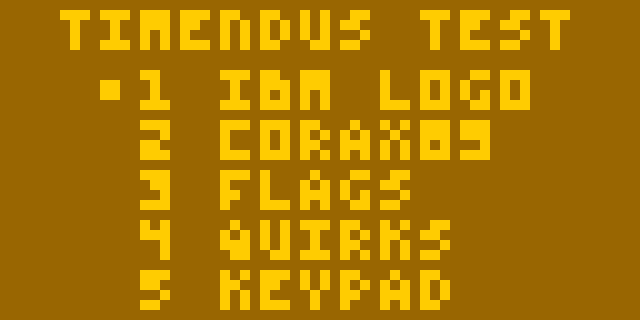
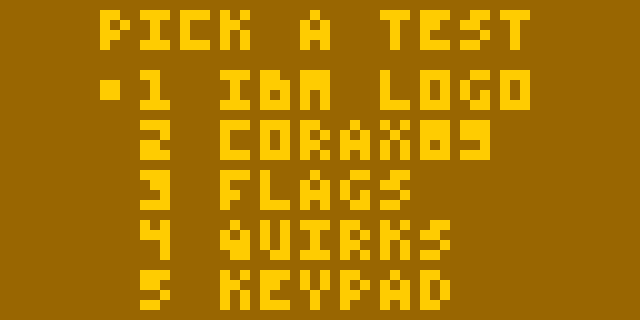
Explain the controls of the menu

diff --git a/README.md b/README.md
@@ -31,12 +31,32 @@ discord channel `#chip-8`](https://discord.gg/dkmJAes). If you discover a
 problem with this test ROM, feel free to file an issue or open a pull request.
 It's open source, licensed under the GPLv3, and you're welcome to contribute.
 
+## Controls
+
+When you see the CHIP-8 splash screen, press any CHIP-8 key to get to the main
+menu:
+
+![The menu for the CHIP-8 test suite](./pictures/menu.png)
+
+In the menu, you can move the cursor up and down with CHIP-8 keys `5` and `8`
+and select an item with `6`. On a PC keyboard those generally map to `W` and `S`
+or `Up` and `Down` to move the cursor and `E` or `Space` to select.
+
+Alternatively, for tests 1-4 you can press the corresponding CHIP-8 key to jump
+to those tests immediately. Note that this doesn't work for the keypad test
+because the `5` key is already in use for moving the cursor up.
+
+I wanted to allow users with limited keys (like a game controller) to be able to
+use this ROM too, so I needed to have a cursor and I kinda had to make this
+concession. So just so you know, this is not a bug, it's a feature 😄
+
 ## Auto-starting a specific test
 
-The ROM has a graphical menu to select the test you wish to run. But if you're
-just starting out and you have very few opcodes implemented, or if you're trying
-to automate your tests, you can force the ROM to immediately start a specific
-test. It will skip waiting for a keypress and the menu entirely. To do so:
+When you're repeatedly testing the same thing, if you're just starting out and
+you have very few opcodes implemented, or if you're trying to automate your
+tests, having to use the menu gets in the way. In that case, you can force the
+ROM to immediately start a specific test by setting a magic value in RAM. It
+will then skip waiting for a keypress and the menu entirely. To do so:
 
   1. Load the ROM file in memory at address `0x200` (`512`) like you normally do
   2. Set the specific test you wish to run by loading a value between 1 and 5 in
@@ -194,6 +214,9 @@ platform by loading a value between 1 and 3 into memory at the address `0x1FE`
 
 ![Choosing a target platform in the quirks test](./pictures/quirks-platform.png)
 
+This menu works exactly the same as the main menu in terms of
+[controls](#controls).
+
 The test will now run through a couple of steps, which you will see on the
 screen as some garbage and a bunch of smiley faces. After about two seconds, you
 should see this screen:
@@ -225,17 +248,6 @@ This is an implementation of a keypad test. When you press a key, the
 corresponding value lights up on the screen. There are more implementations of
 something like this, but I thought it was a valuable addition to this suite, so
 I wrote one.
-
-Note that you can start any of the tests from the main menu by pressing the
-corresponding number on the keypad, except for this one. That's because pressing
-5 on your PC keyboard is often not mapped to any CHIP-8 keys and pressing 5 on a
-CHIP-8 keyboard is generally used as an "up" key. You can however move the
-cursor down to the item (usually `S` on PC keyboard or `8` in CHIP-8 keypad) and
-select it (usually `E` on PC keyboard or `6` on CHIP-8 keypad).
-
-I wanted to allow users with limited keys (like a game controller) to be able to
-use this ROM too, so I wanted to have the cursor and I had to make this
-concession. So just so you know, this is not a bug, it's a feature 😄
 
 To auto-start this test, load the value `5` into memory at `0x1FF`, load the ROM
 in memory starting from `0x200` and start your interpreter.
